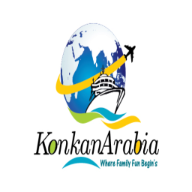
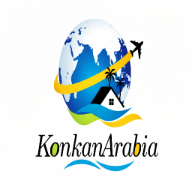
feat: add specialized services, update brand assets, and refine about page

Changed region(s): [[0.1562, 0.0938, 0.8438, 0.9062]]

diff --git a/app/about/page.tsx b/app/about/page.tsx
@@ -42,7 +42,7 @@ export default function AboutPage() {
             <div className="absolute -inset-4 bg-[#0066a1]/5 rounded-[3rem] -z-10 transition-transform group-hover:scale-105 duration-700"></div>
             <div className="relative h-[400px] md:h-[600px] rounded-[2.5rem] overflow-hidden shadow-2xl">
               <Image 
-                src="/logo/KonkanArabia-logo.png" 
+                src="/logo/KonkanArabia-New-Logo.png" 
                 alt="KonkanArabia Logo" 
                 fill
                 className="object-contain bg-white p-12 transition-transform duration-700 group-hover:scale-110"

diff --git a/app/components/header.tsx b/app/components/header.tsx
@@ -143,7 +143,7 @@ export default function Header() {
           <Link href="/" className="flex items-center gap-1 sm:gap-2 group transition-all duration-300">
             <div className="relative flex-shrink-0">
                 <Image
-                  src="/logo/KonkanArabia-logo.png"
+                  src="/logo/KonkanArabia-New-Logo.png"
                   alt="KonkanArabia Logo"
                   width={88}
                   height={88}
